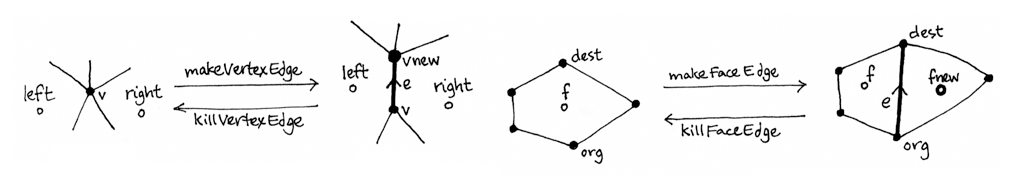
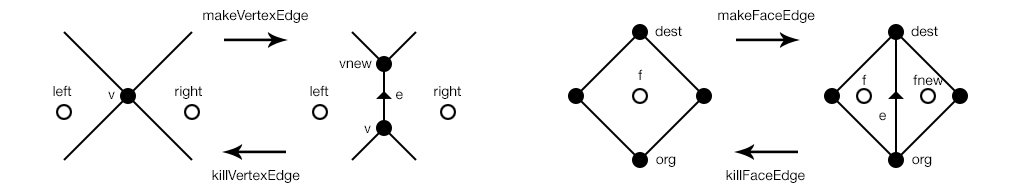
updated quadedge figures and provided proper attribution

diff --git a/documentation/manual/src/sec-case-delaunay.tex b/documentation/manual/src/sec-case-delaunay.tex
@@ -30,9 +30,9 @@ Our workbench already has a simple point set type
 algorithm. The algorithm uses the quad-edge data
 structure~\cite{guibas1985primitives} to store and manipulate terrain topology.
 After explaining how the algorithm and data structure work, we use Heckbert's
-QuadEdge C++ library to implement \texttt{Terrain\_3r} and use it to arrive at a
-correct implementation of incremental Delaunay. We conclude by using the GUI to
-generate an input point set and run the algorithm.
+QuadEdge C++ library~\cite{heckbert} to implement \texttt{Terrain\_3r} and use
+it to arrive at a correct implementation of incremental Delaunay. We conclude by
+using the GUI to generate an input point set and run the algorithm.
 
 %==============================================================================
 
@@ -95,7 +95,8 @@ summarizes the \texttt{Edge} API.
 \begin{figure}[h]
 	\centering
 	\includegraphics[width=\textwidth]{figures/quadedge-edge-api} 
-	\caption{Pictoral summary of the \texttt{Edge} API.}
+	\caption{Pictoral summary of the \texttt{Edge} API. Redrawn
+	from~\cite{heckbert}.}
 	\label{fig:quadedge-edge-api} 
 \end{figure}
 
@@ -116,10 +117,11 @@ call, it will be valid after the call, as well.
 \begin{figure}[h]
 	\centering
 	\includegraphics[width=\textwidth]{figures/quadedge-cell-api} 
-	\caption{Pictoral summary of the 4 major \texttt{Cell} operations.}
-	\label{fig:quadedge-cell-api} 
+	\caption{Pictoral summary of the 4 major \texttt{Cell} operations. Redrawn
+	from~\cite{heckbert}.}
+	\label{fig:quadedge-cell-api}  
 \end{figure}
-
+ 
 \begin{itemize}
   \item \texttt{c->makeVertexEdge(v, left, right)} splits vertex \texttt{v},
   creating a new edge and vertex that both lie between faces \texttt{left} and

diff --git a/documentation/manual/src/appendix.tex b/documentation/manual/src/appendix.tex
@@ -7,7 +7,7 @@
 
 This section covers how to add new geometric types to the DDAD workbench.
 
-\begin{enumerate}
+\begin{enumerate} 
   \item Create a new header and implementation file under the geometry library
   folder. See folder structure (\ref{appdx:folder-structure}). File names are in
   lower case with underscores between words (e.g. \texttt{geometry/my\_geometric\_type.h}.)
